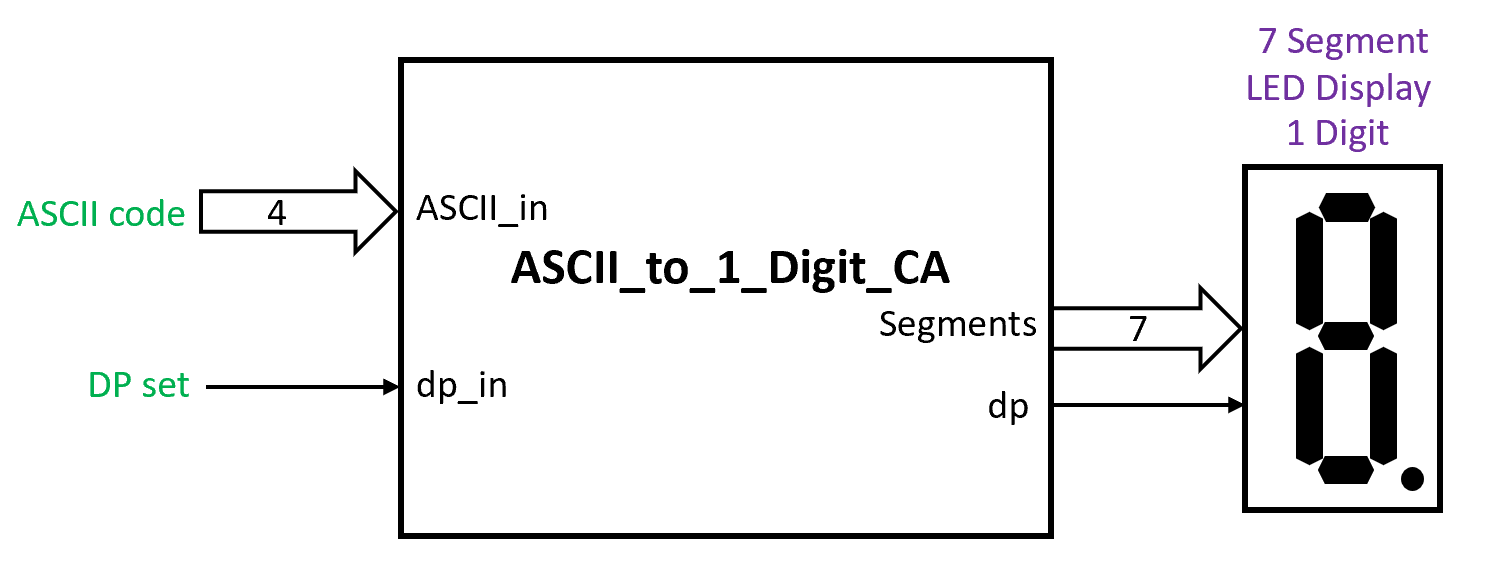
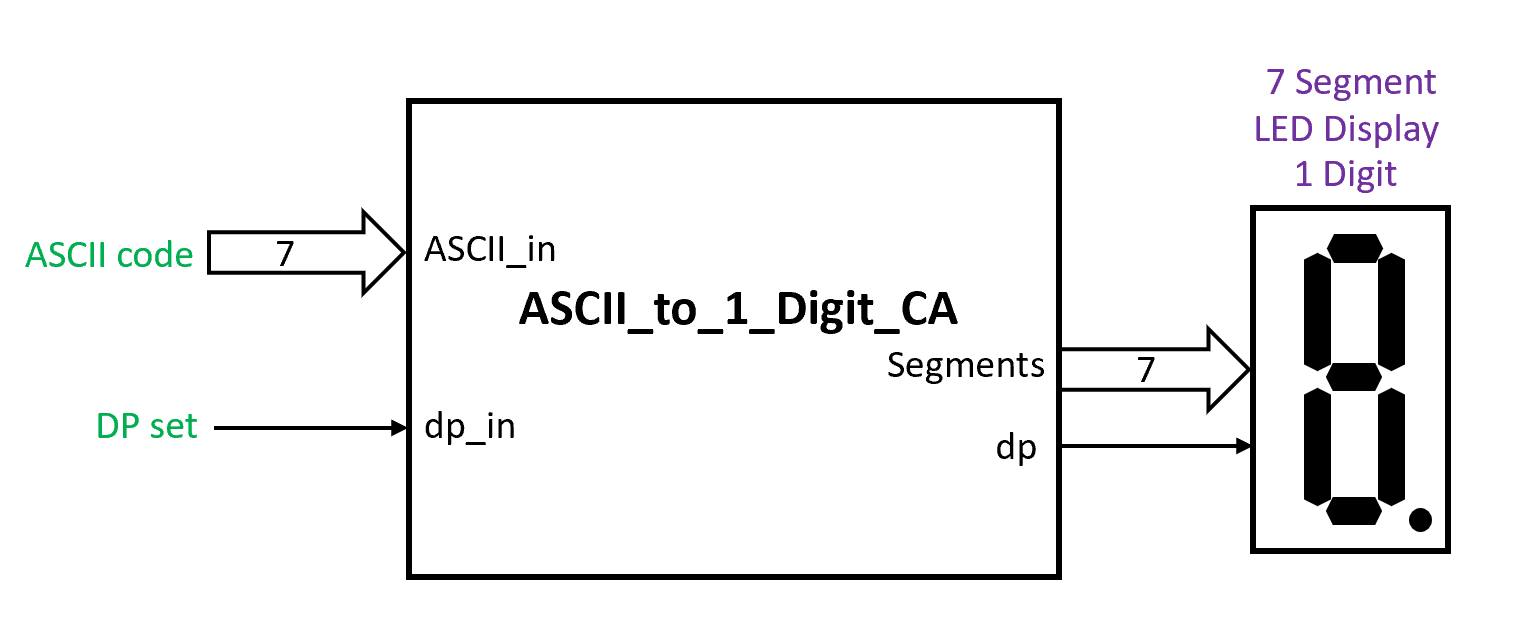
new file:   1_ Digit_Displa_CA/ASCII_to_1_Digit_CA.v

Changed region(s): [[0.0, 0.0906, 0.9369, 0.9663], [0.812, 0.0302, 0.9681, 0.4529], [0.812, 0.7851, 0.9681, 0.9361]]

diff --git a/1_ Digit_Displa_CA/README_1.md b/1_ Digit_Displa_CA/README_1.md
@@ -309,7 +309,7 @@ The module implemented in the FPGA is shown in Figure 18 and consists of a decod
 ![ Figure 18 ](/Pictures/Figure18.png)
 
 The module has:
-- 4 input pins for data where the ASCII code is presented = ASCII_in;
+- 7 input pins for data where the ASCII code is presented = ASCII_in;
 - 1 input pin for control of the Decimal Point = dp_in;
 - 7 output pins for controlling segments a to g of the 7 Segment display = Segments;
 - 1 output pin for controlling the Decimal Point of the 7 Segment display = dp;
@@ -318,4 +318,8 @@ The module has:
 The source code for the FPGA program written in VHDL is as follows:
 
 https://github.com/LincaMarius/FPGA_7_Segment_Display_Driver/blob/main/1_%20Digit_Displa_CA/ASCII_to_1_Digit_CA.vhd
+
+The source code for the FPGA program written in Verilog is as follows:
+
+https://github.com/LincaMarius/FPGA_7_Segment_Display_Driver/blob/main/1_%20Digit_Displa_CA/ASCII_to_1_Digit_CA.v
 
